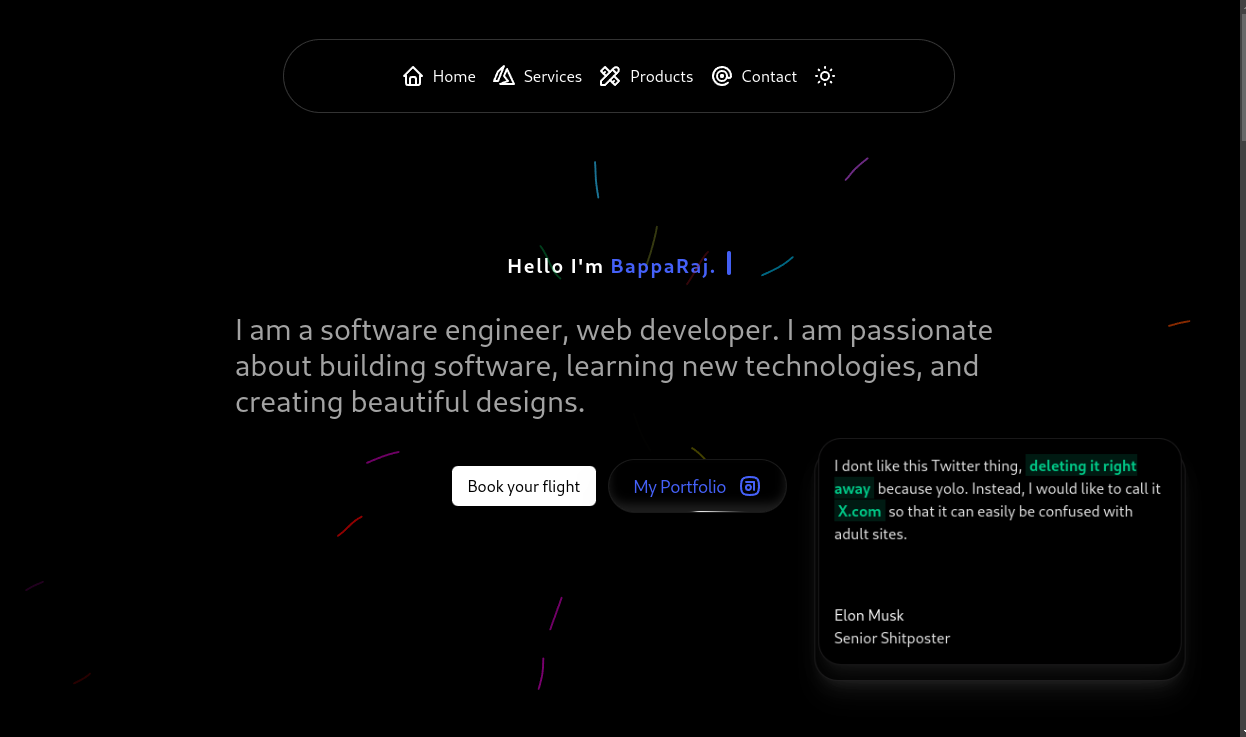
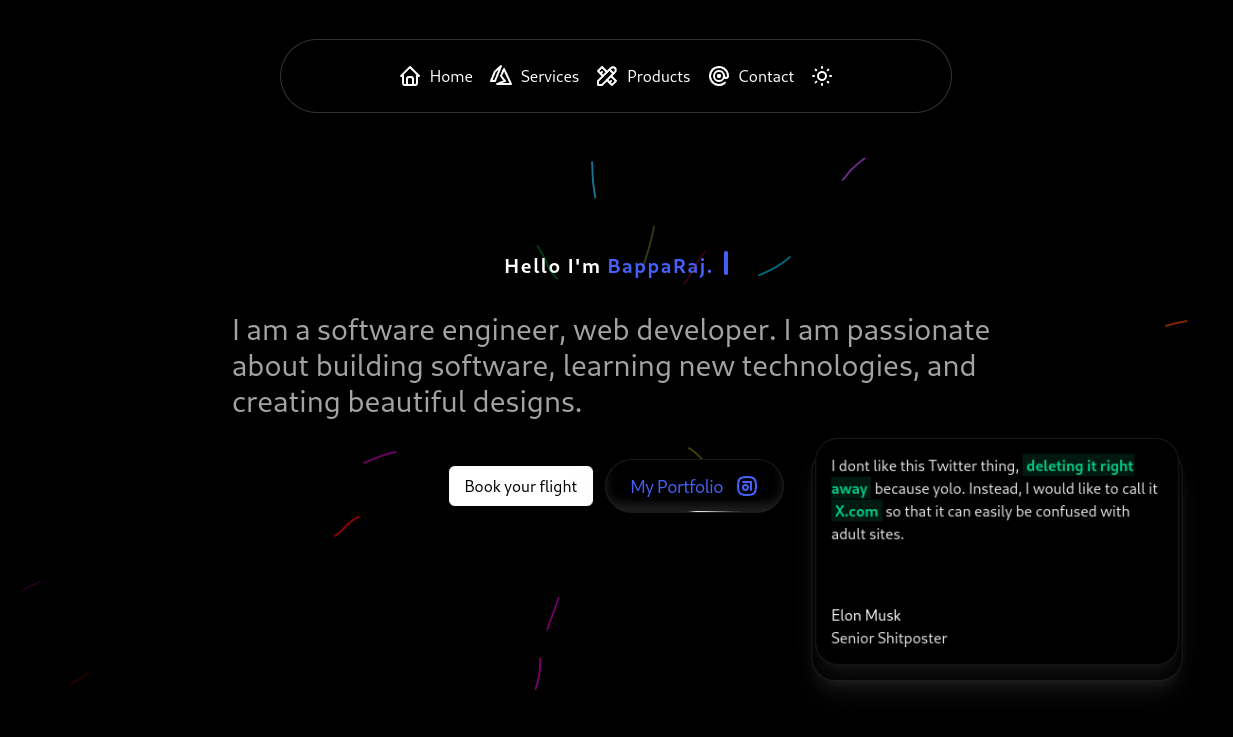
feat(home): improve HeroBar design and add navigation
- Improved HeroBar design with a new layout and a more visually appealing animation.
- Added a "Components" button that links to the "/component" page.
- Updated styling for the HeroBar's background and text elements.
- Increased the quantity of stars in the ShootingStars animation.
- Adjusted the timing and animation for the HeroBar's fading in.
- Modified the button to use a RainbowButton component.
- Updated the CSS to include a dark mode theme.

diff --git a/src/components/home/HeroBar.tsx b/src/components/home/HeroBar.tsx
@@ -2,7 +2,7 @@
 
 import {useEffect, useState} from "react";
 import {IconArrowMoveRightFilled} from "@tabler/icons-react";
-// import {Image} from "@nextui-org/react";
+import { useRouter } from "next/navigation";
 
 import { ShootingStars } from "@/components/ui/shooting-stars";
 import StarsBackground from "@/components/ui/background";
@@ -16,6 +16,7 @@ import {RainbowButton} from "@/components/ui/button";
 export const HeroBar = () => {
     const [starColor, setStarColor] = useState<"#9E00FF" | "#2EB9DF">("#2EB9DF");
     const { theme } = useTheme();
+    const { push } = useRouter();
 
     useEffect(() => {
         setStarColor(theme === "dark" ? "#9E00FF" : "#2EB9DF");
@@ -27,7 +28,7 @@ export const HeroBar = () => {
             <ShootingStars starWidth={20} starHeight={6}/>
             <StarsBackground
                 className={"absolute inset-0 "}
-                quantity={20}
+                quantity={100}
                 ease={80}
                 color={starColor}
                 refresh={true}
@@ -46,7 +47,7 @@ export const HeroBar = () => {
                         className={"ml-1 size-3 transition-transform duration-300 ease-in-out group-hover:translate-x-0.5"}/>
                 </AnimatedGradientText>
             </div>
-            <div className={"h-auto space-y-3"}>
+            <div className={"h-auto space-y-3 mb-8"}>
                 <h1 className={" text-3xl md:text-6xl lg:text-8xl  font-fredoka"}>
                     Mack your website with
                     <br/>
@@ -58,15 +59,15 @@ export const HeroBar = () => {
                     Tailwind CSS, React, and Framer Motion.
                 </p>
             </div>
-
-            <RainbowButton >
-                Get Started
+            <RainbowButton onClick={() => push("/component")}>
+               <p className={"dark:text-black"}>
+                   Components
+               </p>
             </RainbowButton>
-
             <div
-                className={`relative mt-32 animate-fade-up opacity-0 [--animation-delay:400ms] [perspective:2000px] after:absolute after:inset-0 after:z-50 after:[background:linear-gradient(to_top,hsl(var(--background))_30%,transparent)] ${'before:animate-image-glow'}`}>
+                className={`relative mt-20 animate-fade-up opacity-0 [--animation-delay:400ms] [perspective:2000px] after:absolute after:inset-0 after:z-50 after:[background:linear-gradient(to_top,hsl(var(--background))_30%,transparent)] ${'before:animate-image-glow'}`}>
                 <div
-                    className={"rounded-xl border border-white/10 bg-white hero bg-opacity-[0.01] "}>
+                    className={"rounded-xl border border-black/10 dark:border-white/10  bg-white hero bg-opacity-[0.01] "}>
                     <BorderBeam size={200} duration={12} delay={9} />
                     <img src={"/images/hero-bar-dark.png"} alt={"HeroDarkImage"}
                          className={"relative hidden size-full rounded-[inherit] object-contain dark:block"}/>

diff --git a/src/app/globals.css b/src/app/globals.css
@@ -5,10 +5,22 @@
 @tailwind components;
 @tailwind utilities;
 
-:root {
-    --color-1: 0 100% 63%;
-    --color-2: 270 100% 63%;
-    --color-3: 210 100% 63%;
-    --color-4: 195 100% 63%;
-    --color-5: 90 100% 63%;
+
+@layer base {
+    :root {
+        --color-1: 0 100% 63%;
+        --color-2: 270 100% 63%;
+        --color-3: 210 100% 63%;
+        --color-4: 195 100% 63%;
+        --color-5: 90 100% 63%;
+
+        --background: 0 0% 100%;
+        --foreground: 0 0% 3.9%;
+    }
+
+    .dark {
+        --background: 0 0% 0%;
+        --foreground: 0 0% 98%;
+
+    }
 }
